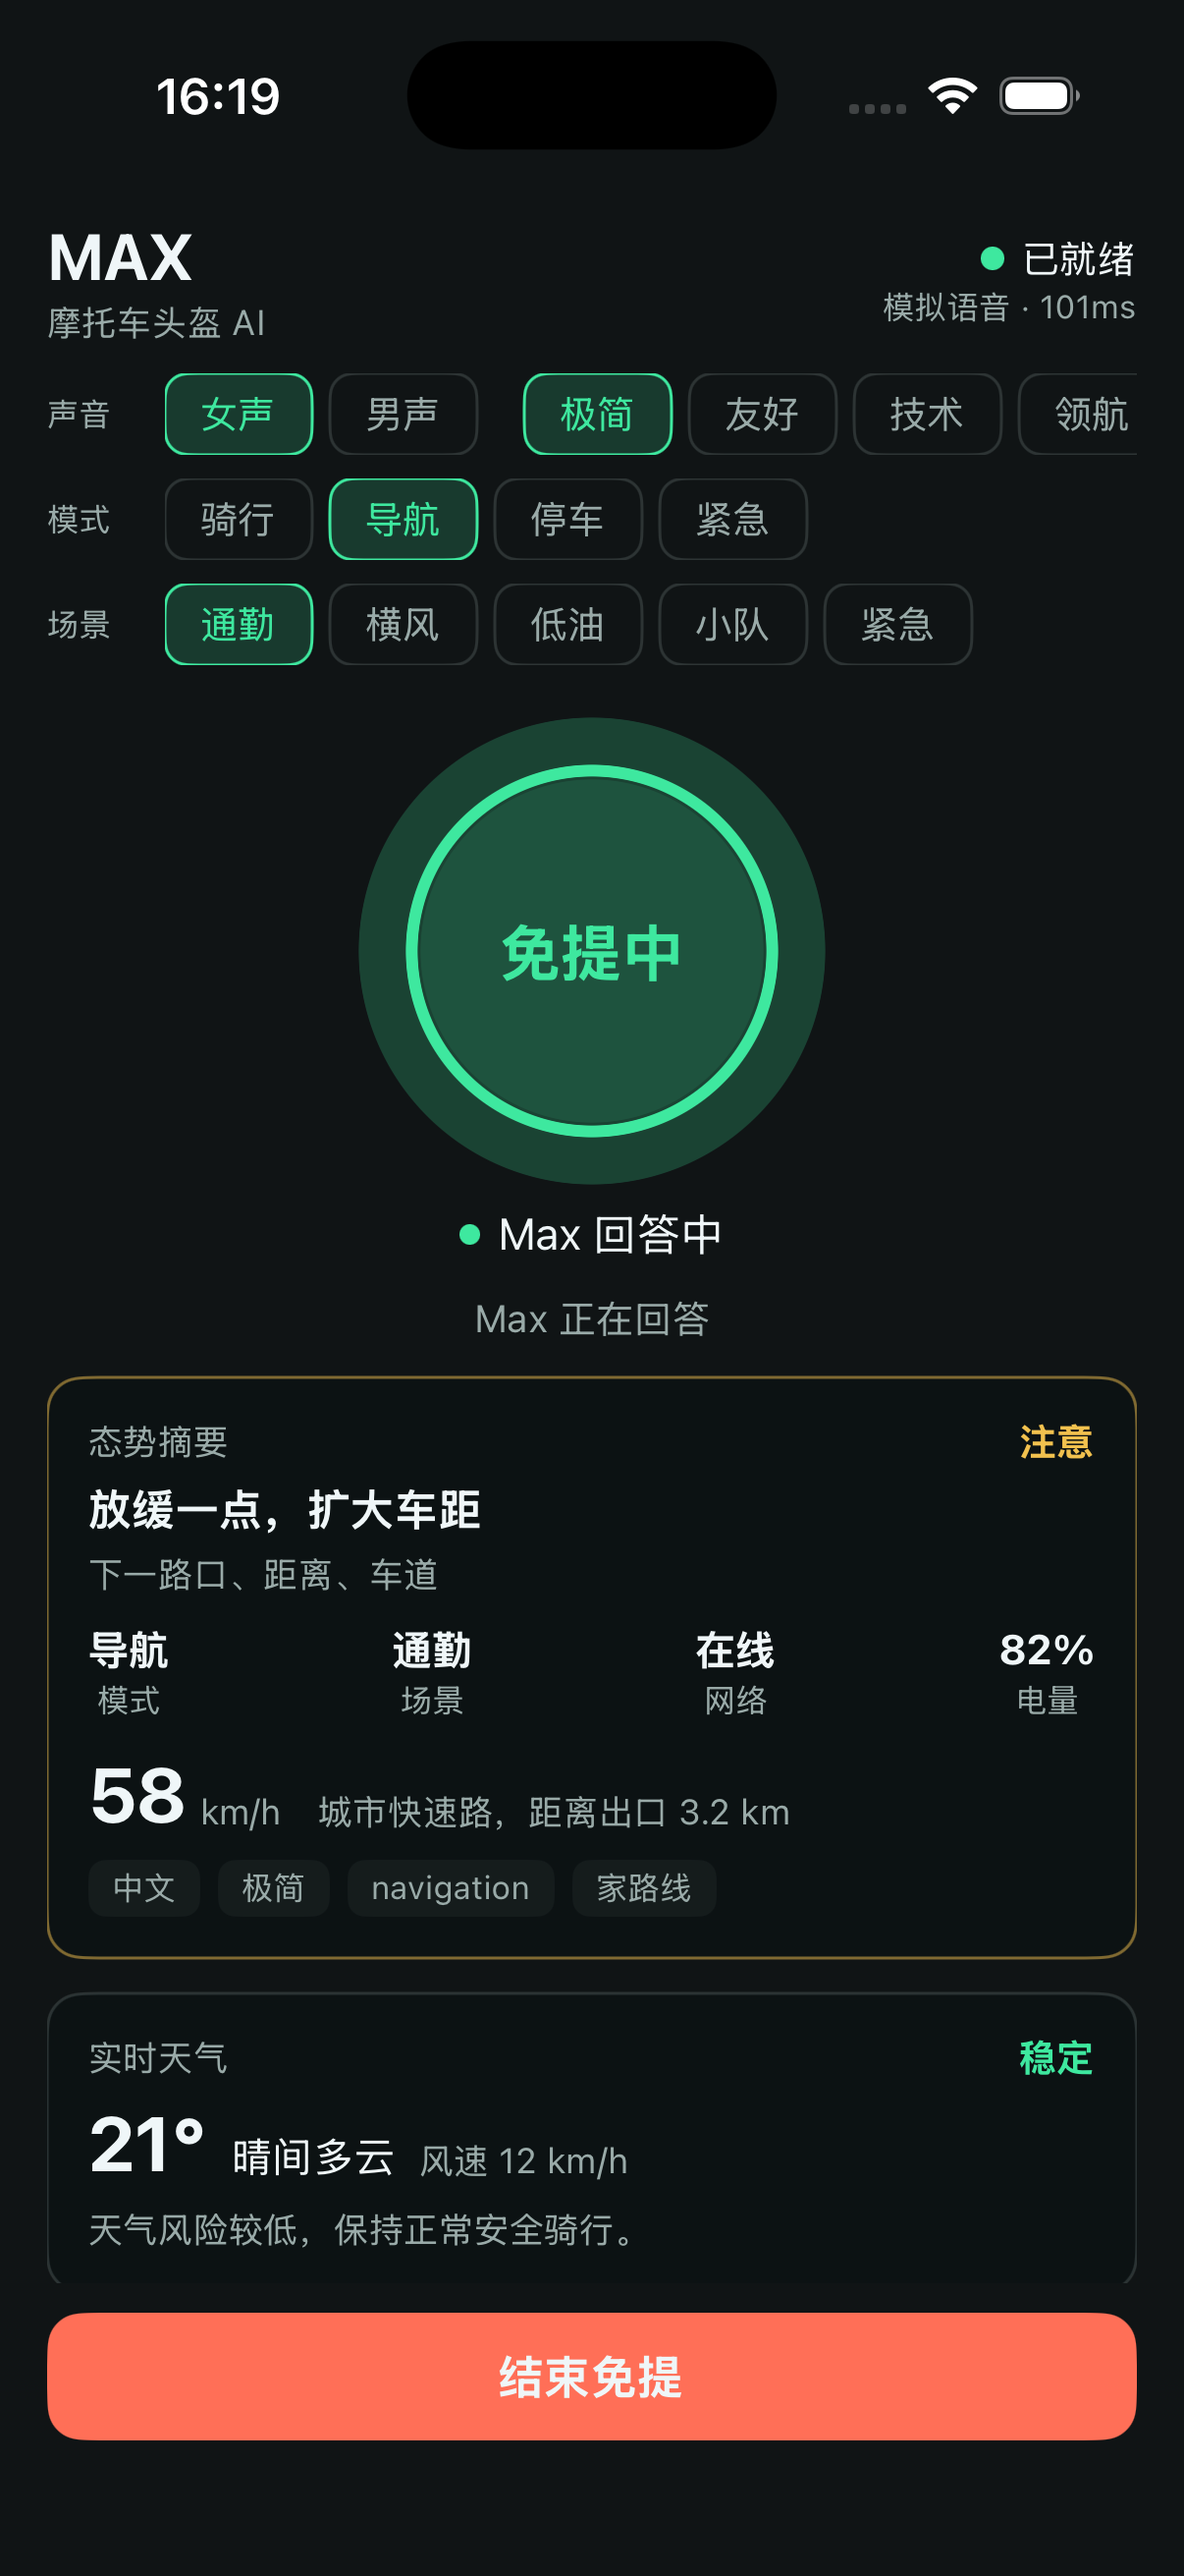
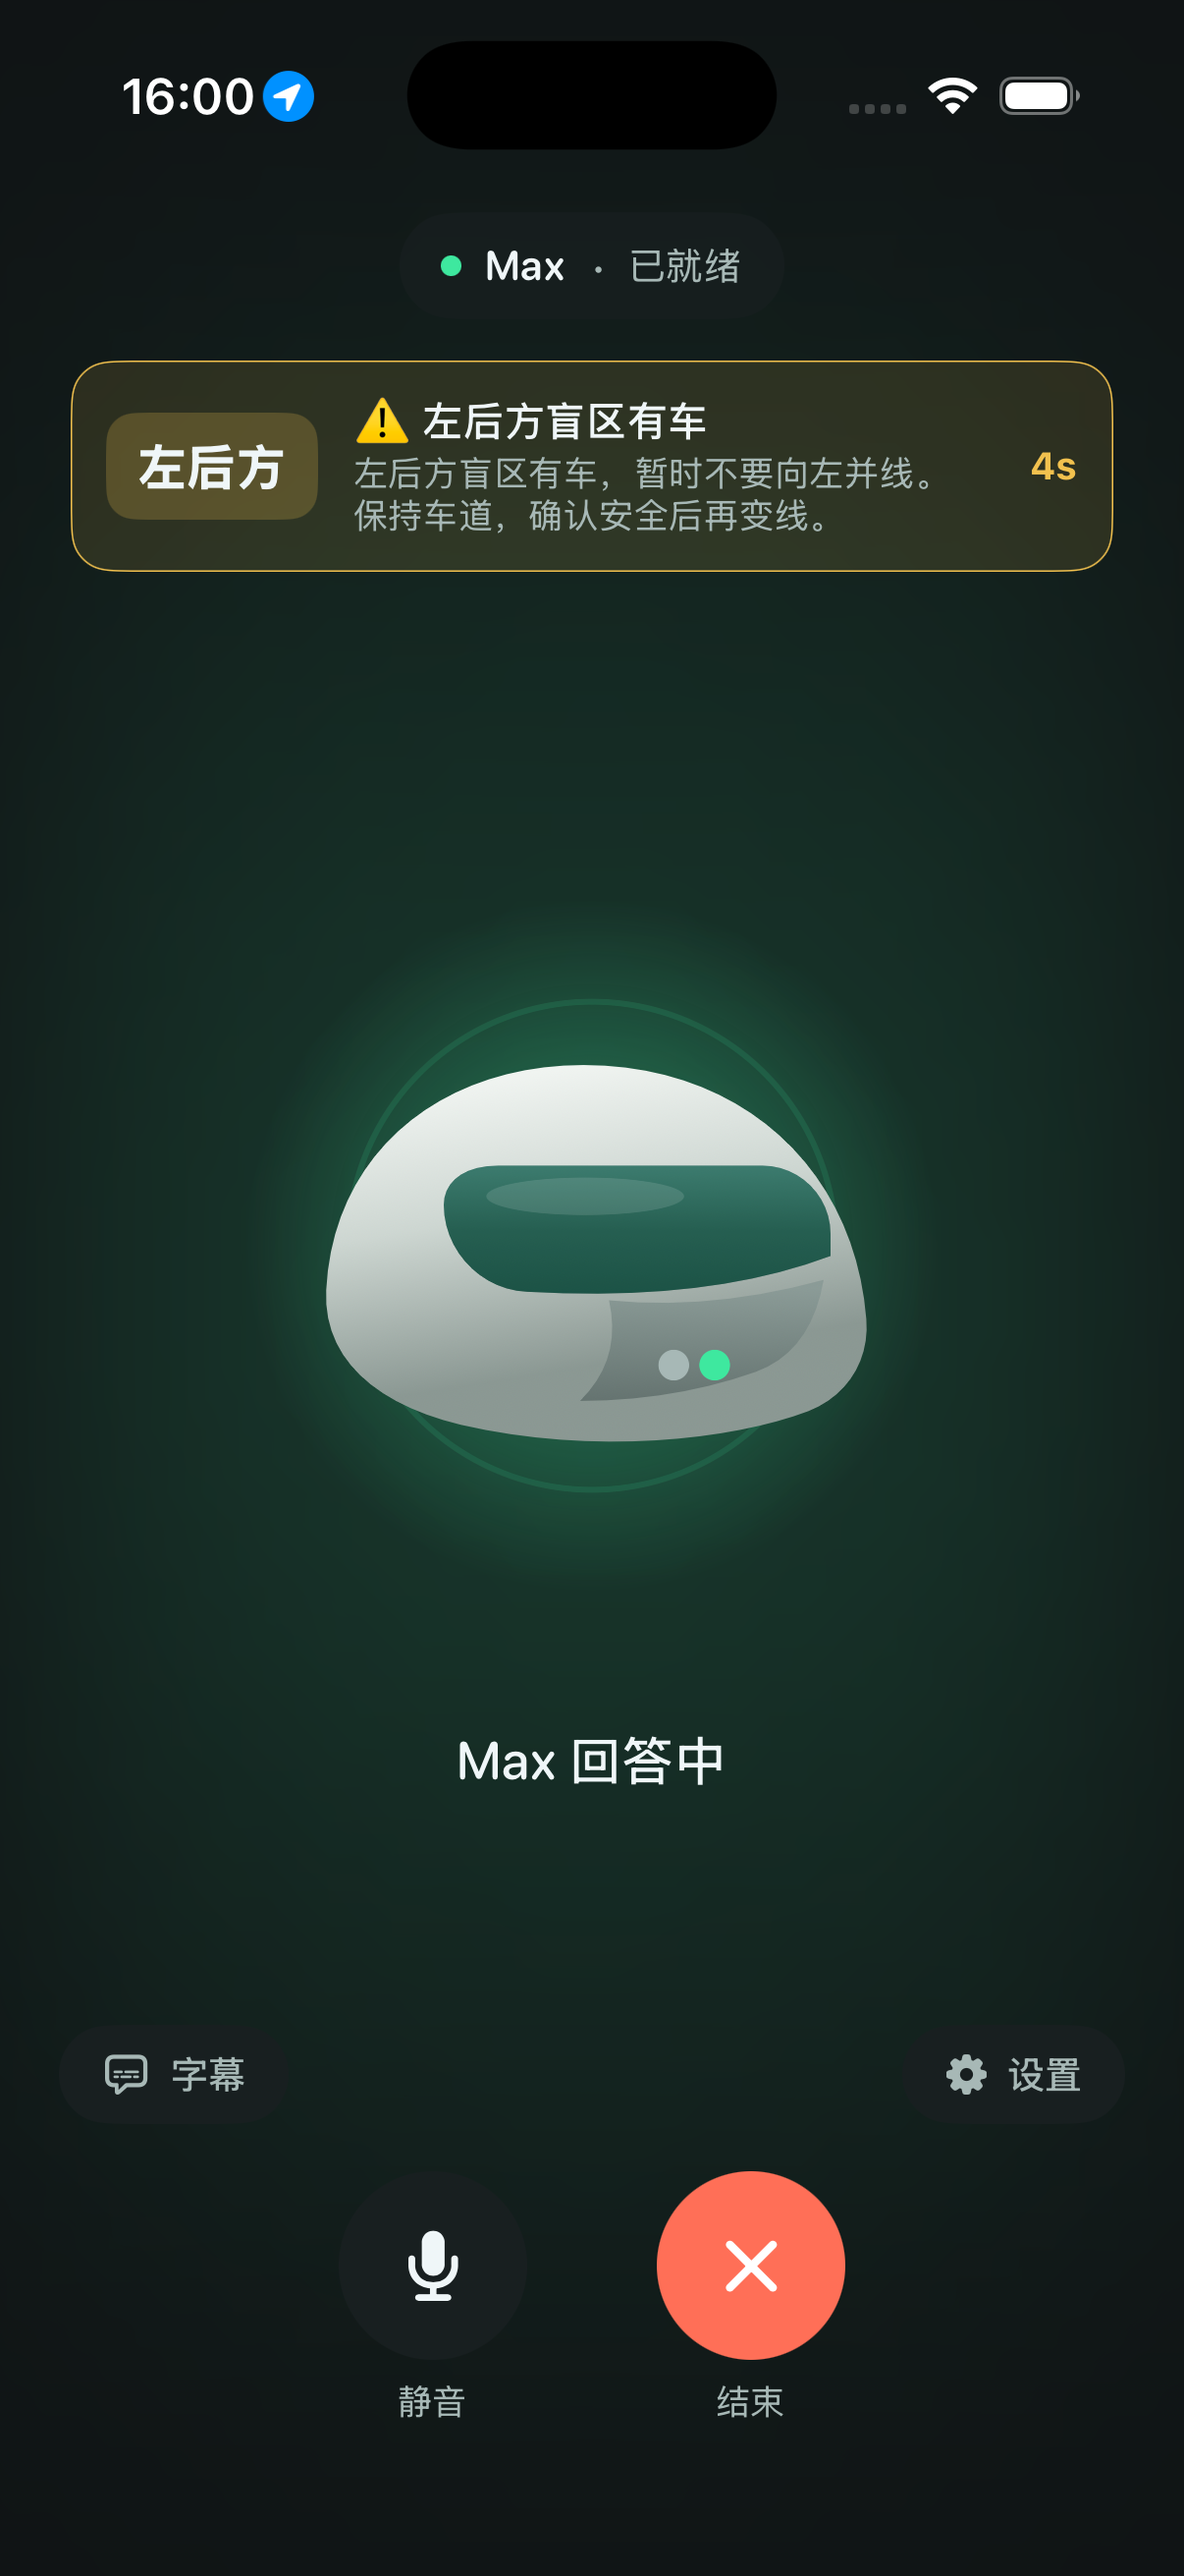
docs: refresh README screenshots for voice-mode helmet redesign
- Recapture iOS (idle, live session + ADAS, captions, settings) and Android
  (idle, live session, settings) from the new helmet voice-mode UI
- Replace stale data-dense HUD screenshots; drop old android-hud-speaking /
  ride-pulse / transcript assets
- Update README galleries/captions and fix stale 'Max ring' / 'turn-state ring'
  wording to 'helmet'

diff --git a/ios/README.md b/ios/README.md
@@ -18,9 +18,17 @@ iPhone (this app)                       Mac / test server
 
 ## Screenshots
 
-| 待机设置                                         | 免提会话                                             |
-| ------------------------------------------------ | ---------------------------------------------------- |
-| ![iOS idle HUD](../docs/assets/ios-hud-idle.png) | ![iOS active HUD](../docs/assets/ios-hud-active.png) |
+Voice mode: the brand helmet breathes and glows with the conversation, with a
+single caption and minimal controls. The ADAS hazard banner pins to the top, and
+every setting lives in the 设置 sheet.
+
+| 待机 — 点按头盔                                   | 免提会话 + ADAS 提示                                  |
+| ------------------------------------------------- | ----------------------------------------------------- |
+| ![iOS voice mode, idle](../docs/assets/ios-hud-idle.png) | ![iOS live session with ADAS alert](../docs/assets/ios-hud-active.png) |
+
+| 字幕（对话记录）                                  | 设置（语音 · 连接 · 场景 · 诊断）                     |
+| ------------------------------------------------- | ----------------------------------------------------- |
+| ![iOS captions overlay](../docs/assets/ios-captions.png) | ![iOS settings sheet](../docs/assets/ios-settings.png) |
 
 ## Requirements
 
@@ -150,7 +158,7 @@ must never ship in a production build. `Info.plist` also enables
 
 ## What's implemented
 
-- Hands-free toggle: the 开启免提/结束免提 button **or tapping the big Max ring** starts/stops mic streaming and the relay session.
+- Hands-free toggle: the 开始/结束 button **or tapping the helmet** starts/stops mic streaming and the relay session.
 - SwiftUI turn-state HUD with the same captions, colors, controls, and ride cards as Android/web.
 - Voice gender, personality, ride mode, and demo scenario selectors.
 - 16 kHz PCM16 mono microphone streaming through `AVAudioEngine`.
@@ -179,7 +187,7 @@ audio + session logic; the `UI/` layer is the SwiftUI HUD.
 | `Agent/PcmPlayer.swift`     | Gapless 24 kHz PCM16 playback + barge-in; attaches its player node to the shared engine                                                                             | playback cursor in `src/main.tsx`, `PcmPlayer.kt`                                         |
 | `Agent/AudioRouter.swift`   | `AVAudioSession` voice-chat config + Bluetooth (HFP) routing                                                                                                        | `AudioRouter.kt`                                                                          |
 | `Agent/AgentSession.swift`  | Relay WebSocket, reconnect backoff, transcript dedup, barge-in, `AVSpeechSynthesizer` TTS fallback, location, self-signed TLS, published state                      | `useHelmetAgent` in `src/main.tsx`, `AgentSession.kt`                                     |
-| `UI/AgentScreen.swift`      | The HUD: header, rider controls, turn-state ring, 态势摘要, weather, telemetry, transcript, controls                                                                | `src/components/HelmetVisual.tsx`, `AgentScreen.kt`                                       |
+| `UI/AgentScreen.swift`      | Voice-mode screen: animated helmet centerpiece (ported SVG), status caption, ADAS banner, captions overlay, minimal controls, and the unified 设置 sheet            | `src/components/HelmetVisual.tsx`, `AgentScreen.kt`                                       |
 | `UI/MainViewModel.swift`    | Relay-URL / cert prefs (`UserDefaults`), hands-free toggle, transcript export share sheet                                                                           | `MainViewModel.kt`                                                                        |
 | `UI/HudTheme.swift`         | Design tokens                                                                                                                                                       | `src/styles.css`, `theme/Theme.kt`                                                        |
 | `MaxHelmetApp.swift`        | App entry; keeps the screen awake, forces dark mode                                                                                                                 | `MainActivity.kt`                                                                         |

diff --git a/README.md b/README.md
@@ -12,17 +12,20 @@ The native Android client (`android/`, Kotlin + Jetpack Compose) speaks the same
 protocol as the web HUD, so the Node server, Doubao integration, weather, and ride intelligence
 all work unchanged. See [android/README.md](android/README.md) for build and setup.
 
-**免提会话 — Max 回答中** · hands-free session with the turn-state ring
+Voice mode: the brand helmet breathes and glows with the conversation, with a
+single status caption and minimal controls.
 
-![Android HUD — hands-free session, Max speaking](docs/assets/android-hud-speaking.png)
+**待机 — 点按头盔** · voice mode at rest
 
-**态势摘要 · 实时天气 · 延迟遥测** · ride pulse, live weather, and latency cards
+![Android voice mode — idle](docs/assets/android-voice-idle.png)
 
-![Android HUD — ride pulse, weather, and latency telemetry](docs/assets/android-ride-pulse.png)
+**免提会话（已就绪）** · live hands-free session, helmet listening
 
-**实时对话记录** · live transcript with in-place updates and JSON export
+![Android voice mode — live session](docs/assets/android-voice-active.png)
 
-![Android HUD — live transcript with export](docs/assets/android-transcript.png)
+**设置 — 语音 · 连接 · 场景 · 诊断** · the unified settings sheet (server address, voice, scenarios, diagnostics)
+
+![Android settings sheet](docs/assets/android-settings.png)
 
 ## iOS App
 
@@ -32,17 +35,25 @@ barge-in, reconnect handling, live weather, transcript export, and TTS fallback 
 iOS-native audio routing and background audio. See [ios/README.md](ios/README.md) for Xcode,
 relay URL, and self-signed test-server setup.
 
-**待机设置 — Max iOS HUD** · voice, ride mode, scenario, relay URL, and hands-free control
+Voice mode: the brand helmet breathes and glows with the conversation, with a
+single status caption and minimal controls.
 
-![iOS HUD — idle setup](docs/assets/ios-hud-idle.png)
+**待机 — 点按头盔** · voice mode at rest
 
-**免提会话 — 模拟语音在线** · turn-state ring, ride pulse, live weather, and telemetry
+![iOS voice mode — idle](docs/assets/ios-hud-idle.png)
 
-![iOS HUD — active hands-free session](docs/assets/ios-hud-active.png)
+**免提会话 + ADAS 提示** · live hands-free session with an ADAS hazard alert pinned on top
+
+![iOS live session with ADAS alert](docs/assets/ios-hud-active.png)
+
+**字幕 + 设置** · optional captions overlay, and the unified settings sheet (server address, voice, scenarios, diagnostics)
+
+![iOS captions overlay](docs/assets/ios-captions.png)
+![iOS settings sheet](docs/assets/ios-settings.png)
 
 ## Current Capabilities
 
-- Hands-free operation — click the main button, **tap the big Max ring** (iOS/Android), or press Space (web) to start/stop; once active, the rider just talks and Doubao's server-side VAD handles turn-taking.
+- Hands-free operation — click the main button, **tap the helmet** (iOS/Android), or press Space (web) to start/stop; once active, the rider just talks and Doubao's server-side VAD handles turn-taking.
 - Wake word — on the live agent, Max only replies when addressed by name ("Max"), so chit-chat and passenger talk don't trigger it; a 12 s follow-up window keeps a conversation going.
 - ADAS proactive safety alerts — simulated directional hazards (rear approach, forward collision, blind spot, cross-traffic, pedestrian, lane departure, tailgating) **interrupt** the agent and announce the danger; fires on mock and, for the `ADAS` scenario, on the live Doubao path.
 - Agent identity — attributes its development to Horizon Continental Technology (neueHCT) and names the CEO (Li Biao / Stone Li), in Chinese and English.

diff --git a/android/README.md b/android/README.md
@@ -18,9 +18,12 @@ Phone (this app)                        Mac / test server
 
 ## Screenshots
 
-| 免提会话（Max 回答中）                                         | 态势摘要 + 天气 + 延迟                                           | 实时对话记录                                              |
-| -------------------------------------------------------------- | ---------------------------------------------------------------- | --------------------------------------------------------- |
-| ![Hands-free session](../docs/assets/android-hud-speaking.png) | ![Ride pulse and weather](../docs/assets/android-ride-pulse.png) | ![Live transcript](../docs/assets/android-transcript.png) |
+Voice mode: the brand helmet breathes and glows with the conversation, with a
+single caption and minimal controls. Every setting lives in the 设置 sheet.
+
+| 待机 — 点按头盔                                          | 免提会话（已就绪）                                          | 设置（语音 · 连接 · 场景 · 诊断）                       |
+| -------------------------------------------------------- | ----------------------------------------------------------- | ------------------------------------------------------- |
+| ![Android voice mode, idle](../docs/assets/android-voice-idle.png) | ![Android live session](../docs/assets/android-voice-active.png) | ![Android settings sheet](../docs/assets/android-settings.png) |
 
 ## Requirements
 
@@ -97,7 +100,7 @@ The emulator forwards the host Mac's microphone, so the full voice loop is testa
 
 ## What's implemented (full HUD parity)
 
-- Hands-free toggle: the 开启免提 / 结束免提 button **or tapping the big Max ring** starts/stops mic streaming + relay session
+- Hands-free toggle: the 开始 / 结束 button **or tapping the helmet** starts/stops mic streaming + relay session
 - Turn-state ring with the web HUD's captions and palette (待机 / 请讲话 / 聆听 / 思考 / 回答)
 - Live transcript with in-place partial updates and agent-line dedup (same rules as the web client)
 - Transcript JSON export via the system share sheet (导出日志, same payload as the web export)

diff --git a/CHANGELOG.md b/CHANGELOG.md
@@ -30,6 +30,12 @@ the abstract orb, and every setting lives in one place again.
   screen, so it couldn't open while Settings was up). The JSON transcript can be
   AirDropped / saved / mailed for review from both clients.
 
+### Docs
+
+- **Refreshed screenshots** — the iOS and Android README galleries now show the
+  voice-mode helmet (idle, live session, captions, and the unified 设置 sheet)
+  instead of the old data-dense HUD; stale ring/HUD wording updated to match.
+
 ## 2026-06-10 — Voice mode
 
 A ground-up redesign of the iOS and Android main screens into a "pure voice
